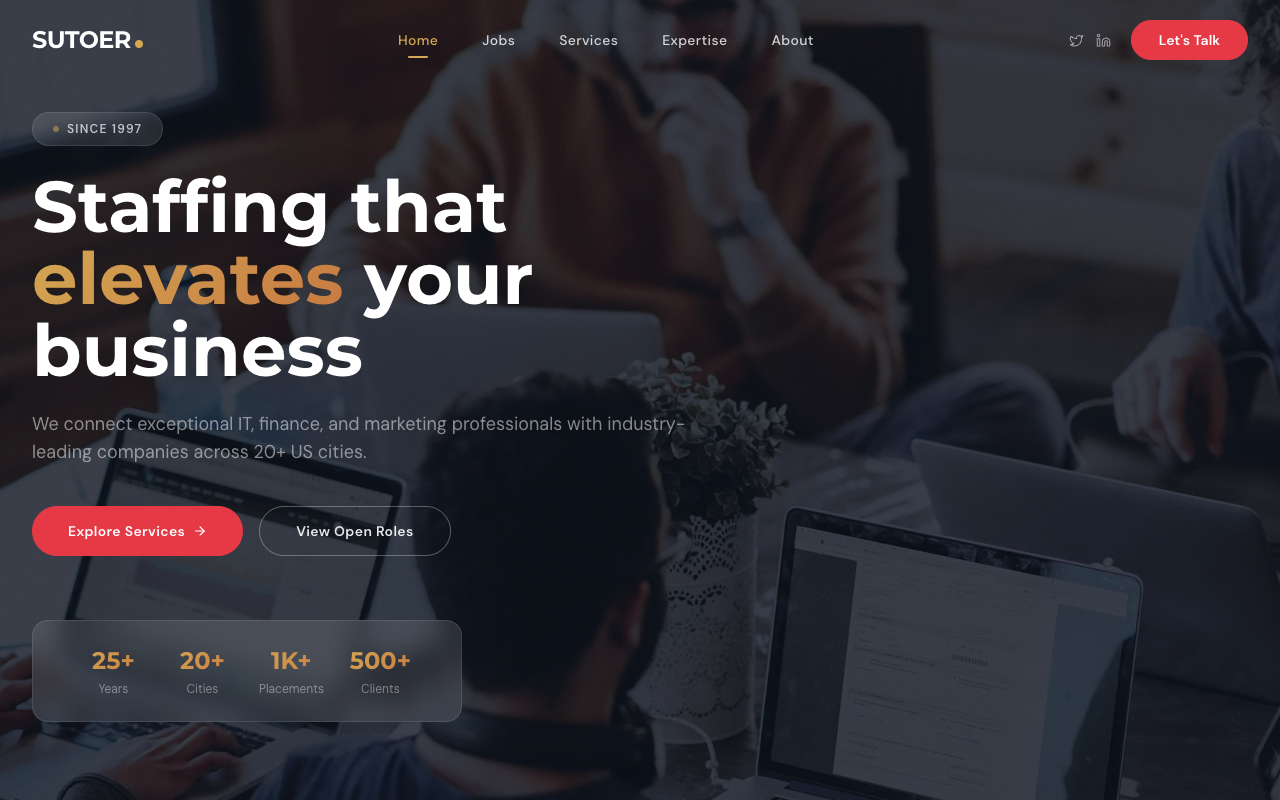
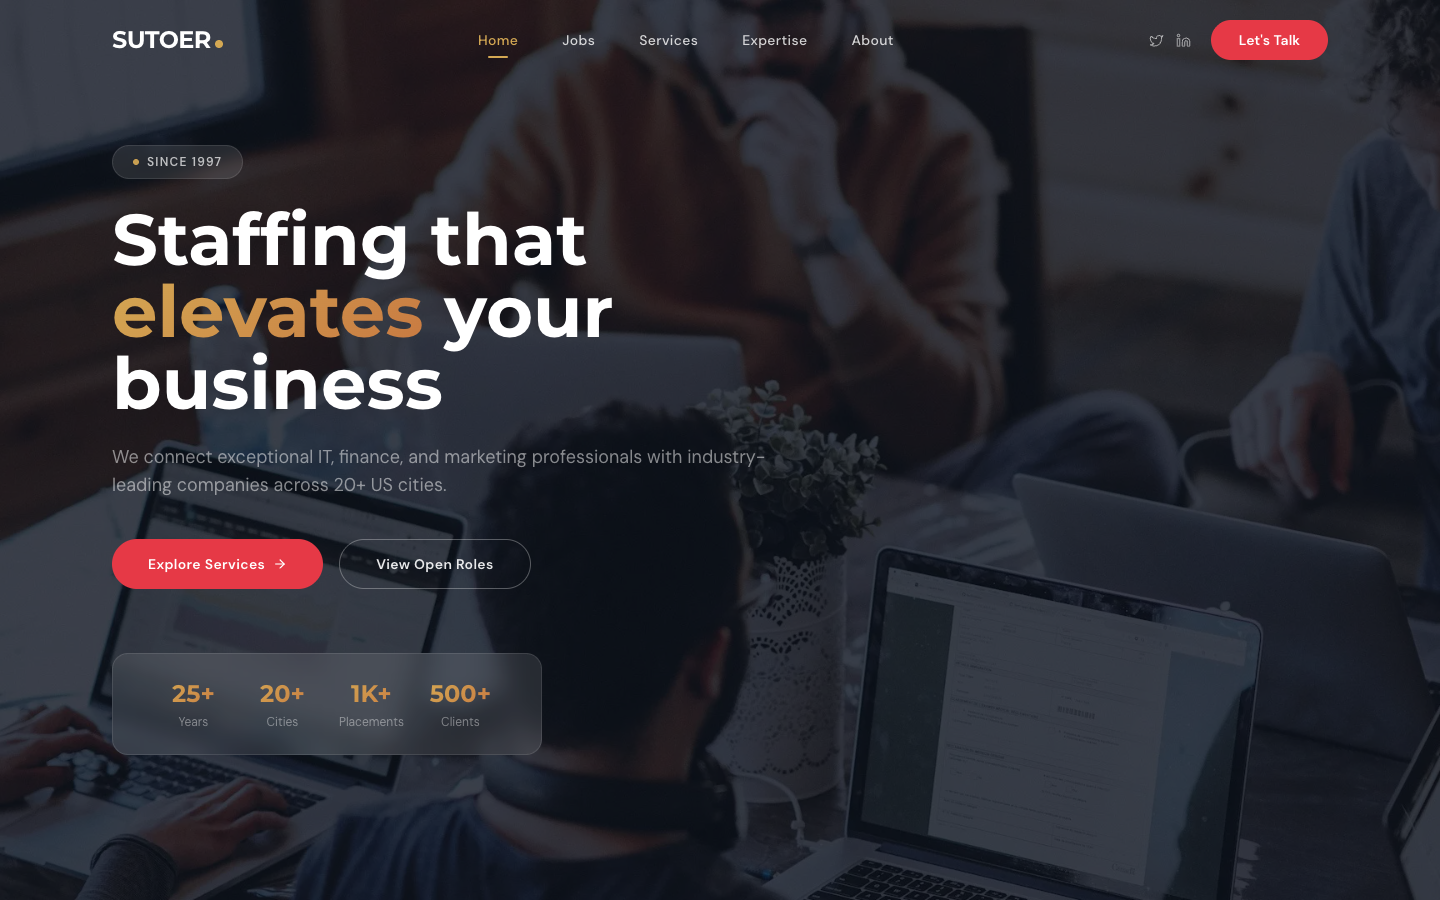
Update Sutoer screenshot, fix image positioning, add Sutoer to portfolio
- Replace old blank Sutoer screenshot with new dark-themed hero design
- Add per-card imagePosition to case studies (object-left-top for Sutoer so headline text is fully visible)
- Add Sutoer Solutions entry to portfolio page with custom job database highlights

diff --git a/src/app/case-studies/page.tsx b/src/app/case-studies/page.tsx
@@ -11,7 +11,17 @@ export const metadata: Metadata = {
     "See real results from CalTech Web clients. From traffic growth to custom features, these case studies show what's possible for $99/month.",
 };
 
-const caseStudies = [
+const caseStudies: {
+  href: string;
+  client: string;
+  industry: string;
+  industryColor: string;
+  headline: string;
+  description: string;
+  image: string;
+  imagePosition: string;
+  stats: { value: string; label: string }[];
+}[] = [
   {
     href: "/case-studies/madera-county-farm-bureau/",
     client: "Madera County Farm Bureau",
@@ -21,6 +31,7 @@ const caseStudies = [
     description:
       "How CalTech Web helped the Madera County Farm Bureau transform their digital presence with a custom scholarship portal, membership management, and comprehensive content — all for $99/month.",
     image: "/portfolio/madera-county-farm-bureau.png",
+    imagePosition: "object-top",
     stats: [
       { value: "55%", label: "Traffic Growth" },
       { value: "1,000+", label: "Pages Built" },
@@ -36,6 +47,7 @@ const caseStudies = [
     description:
       "A busy plastic surgery practice with an outdated website. Here's exactly what we changed and the measurable results: 40% more organic traffic, doubled appointment conversions, and 12+ additional patient inquiries per month, all within 90 days.",
     image: "/portfolio/arjun-kanuri-after.png",
+    imagePosition: "object-top",
     stats: [
       { value: "+40%", label: "Organic Traffic" },
       { value: "2×", label: "Conversions" },
@@ -51,6 +63,7 @@ const caseStudies = [
     description:
       "A 25-year-old IT and finance staffing firm needed a modern website and a way to manage job listings without calling a developer. CalTech Web built a custom job database with a clean admin backend, all for $99/month.",
     image: "/portfolio/sutoer-solutions.png",
+    imagePosition: "object-left-top",
     stats: [
       { value: "Custom", label: "Job Database" },
       { value: "0", label: "Developers Needed" },
@@ -96,7 +109,7 @@ export default function CaseStudiesPage() {
         {/* Case Study Cards */}
         <section className="py-20 px-4 sm:px-6 lg:px-8 bg-gray-50">
           <div className="max-w-5xl mx-auto space-y-10">
-            {caseStudies.map(({ href, client, industry, industryColor, headline, description, image, stats }, index) => (
+            {caseStudies.map(({ href, client, industry, industryColor, headline, description, image, imagePosition, stats }, index) => (
               <Link
                 key={href}
                 href={href}
@@ -109,7 +122,7 @@ export default function CaseStudiesPage() {
                       src={image}
                       alt={`${client} website`}
                       fill
-                      className="object-cover object-top group-hover:scale-105 transition-transform duration-500"
+                      className={`object-cover ${imagePosition} group-hover:scale-105 transition-transform duration-500`}
                       sizes="(max-width: 1024px) 100vw, 50vw"
                     />
                     <div className="absolute inset-0 bg-gradient-to-t from-black/20 to-transparent" />

diff --git a/src/app/web-design-portfolio/page.tsx b/src/app/web-design-portfolio/page.tsx
@@ -106,6 +106,22 @@ type PortfolioItem = {
 
 const portfolioItems: PortfolioItem[] = [
   {
+    name: "Sutoer Solutions",
+    category: "Staffing & Recruiting",
+    description:
+      "A 25-year-old IT and finance staffing firm needed a modern website and a way to manage job listings without calling a developer. We built a bold, dark-themed site with a custom job database and a password-protected admin portal — all for $99/month.",
+    highlights: [
+      "Custom job database with admin portal",
+      "Password-protected backend — no developer needed",
+      "Dark, modern design with animated hero",
+      "25+ years, 1K+ placements, 500+ clients showcased",
+      "Mobile-responsive across all pages",
+      "Launched and managed by CalTech Web",
+    ],
+    screenshot: "/portfolio/sutoer-solutions.png",
+    website: "https://sutoer-pqpg44b12-brandon-7928s-projects.vercel.app",
+  },
+  {
     name: "Madera Men of Integrity",
     category: "Church & Ministry",
     description:
